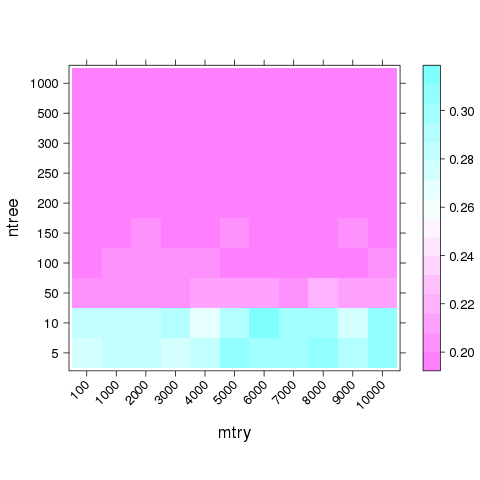
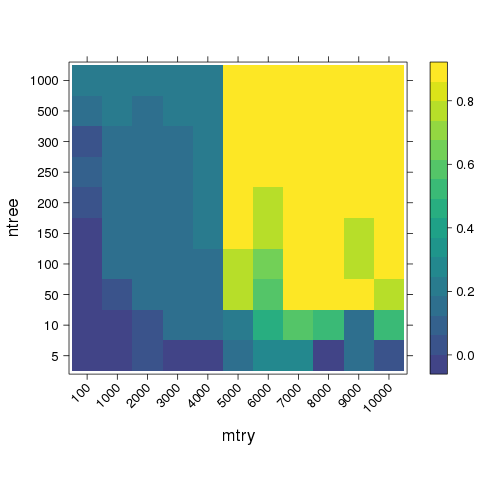
changes to plos16.tex

diff --git a/doc/publications/plos16/plos16.tex b/doc/publications/plos16/plos16.tex
@@ -193,7 +193,7 @@
 \setlength{\marginparwidth}{5cm}
 \usepackage{caption}
 \usepackage{subcaption}
-
+\usepackage{placeins}
 \begin{document}
 \vspace*{0.2in}
 
@@ -563,14 +563,9 @@ the advice of \cite{Liaw.and.Weiner.2002}, which we have found mirrors our own e
 % Section 1:  Feature Selection and classification on synthetic data
 %%%%%%%%%%%%%%%%%%%%%%%%%%%%%%%%
 \subsection{\cursedforest\ can evaluate variable importance for millions of features}\label{synthetic}
-% In this section we demonstrate that \cursedforest's ability to rapidly grow large number of trees, \ntree, in parallel
-% results in a stable feature importance ranking.  This concept was originally proposed by Liaw and
-% Weiner~\cite{Liaw.and.Weiner.2002}, who suggested that though the variable importance measures may vary from run to
-% run, the ranking of the variables will stabilise with growing \ntree.
 In this section we demonstrate \cursedforest\ two main features, namely variable importance analysis to select the most
 associated set of features amongst millions of dimensions as well as its ability to accurately classify the labels of
 high-dimensional samples.
-%We therefore generate a synthetic dataset with varying numbers of variables (features) and samples, as discussed in the method section. 
 We therefore generate a synthetic dataset with 2.5 million variables (features) and 5000 samples, as discussed in the
 method section.
 
@@ -587,44 +582,20 @@ difference between the associated 5 variable and the remaining variables in the 
 with the smallest weight has a predicted importance measure that is 5 times larger than the aggregated importance of the
 15 remaining variables from the list.
 
-\marginpar{wrong figures cited. Rob} Fig.~\ref{figure:synth}b illustrates that increasing \mtry\ also improves the OOB
+Fig.~\ref{figure:synth}b illustrates that increasing \mtry\ also improves the OOB
 (out of bag) classification error.
-%Piotr can you please explain the remaining error on the synthetic data
 By $mtry=0.8$ the error is converging to X, which is due to Y.
 \marginpar{what are ``X'' and ``Y''. Piotr}
 
 From the synthetic data we can conclude that \cursedforest\ is able to perform accurate feature selection as well as
 accurate classification for large numbers of samples with large feature vectors.
 
-
-
-% \begin{figure}[tbhp] 
-%  \begin{adjustwidth}{-1.00in}{0in}
-%   \begin{subfigure}[b]{0.5\linewidth}
-%     \centering
-%     \includegraphics[totalheight=6cm]{./figs/var_oder.png} 
-%     \caption{Variable importance of top 20 variables.} 
-%     \label{fig7:a} 
-%     \vspace{4ex}
-%   \end{subfigure}%% 
-%   \begin{subfigure}[b]{0.5\linewidth}
-%     \centering
-%     \includegraphics[totalheight=6cm]{./figs/var_oob.png}
-%     \caption{OOB classification error} 
-%     \label{fig7:b} 
-%     \vspace{4ex}
-%   \end{subfigure} 
-% \caption{{\bf Variable importance (Mean Decrease Gini) and OOB (out of bag) classification error estimate for random
-%     forests with 100 trees trained on the synthetic dataset of 2.5M features and 5K samples.}  {\bf a)} Variable
-%   importance of top 20 variables normalized to the sum of the linear model coefficients. {\bf Others} represents
-%   aggregated importance of variables not present in the linear model. The dotted line represents the original linear
-%   model coefficients.
-%  {\bf b)} OOB (out of bag) classification error
-%   estimate as function of \mtry\ fraction.}
-%   \label{figure:synth}
-% \end{adjustwidth}
-% \end{figure}
 \marginpar{this was done with n=100000. Needs to redone with n=2.5M}
+
+\subsubsection{simulation 1}
+ 
+Piotr's simulation with $n=1000$ and $p= 10000$
+
 
 \begin{figure}[tbhp] 
  \begin{adjustwidth}{-1.00in}{0in}
@@ -638,6 +609,34 @@ accurate classification for large numbers of samples with large feature vectors.
   \begin{subfigure}[b]{0.5\linewidth}
     \centering
     \includegraphics[totalheight=8cm]{./figs/rbo.png}
+    \caption{The  rank-biased-overlap measure.} 
+    \label{fig7:b} 
+    \vspace{4ex}
+  \end{subfigure} 
+  \caption{{\bf Variable importance (Mean Decrease Gini) and OOB (out of bag) classification error estimate for random
+      forests with 100 trees trained on the synthetic dataset of 2.5M features and 5K samples.}  Each measure is shown
+    as a function of \mtry and \ntree. {\bf a0} OOB (out of bag) classification error.  {\bf b)} The rank-biased-overlap \cite[]{Webber.et.al.2010}. }
+  \label{figure:synth}
+\end{adjustwidth}
+\end{figure}
+
+\FloatBarrier
+\subsubsection{simulation 2}
+Similar to Piotr's simulation with  except $y= w_1x_1 w_2x_2 w_3x_3 w_4x_4 w_5x_5$. $n=1000$ and $p= 10000$
+The significant variables can no longer be recovered by single variable tests for correlation with $y$
+
+\begin{figure}[tbhp] 
+ \begin{adjustwidth}{-1.00in}{0in}
+  \begin{subfigure}[b]{0.5\linewidth}
+    \centering
+    \includegraphics[totalheight=8cm]{./figs/out-of-bag-prediction-error-prod.png}
+    \caption{OOB classification error} 
+    \label{fig7:b} 
+    \vspace{4ex}
+  \end{subfigure} 
+  \begin{subfigure}[b]{0.5\linewidth}
+    \centering
+    \includegraphics[totalheight=8cm]{./figs/rbo-prod.png}
     \caption{The  rank-biased-overlap measure.} 
     \label{fig7:b} 
     \vspace{4ex}
@@ -894,8 +893,11 @@ limits to what can be recovered in the presence of noise. However in the case of
 
 Notes:
 \begin{itemize}
+\item we try a small simulation, a regression problem with $\beta(1:k) \sim U(1,100)$ and $y= X\beta + \epsilon$, $\epsilon \sim  N(0,\sqrt{16})$
 \item \cite{Donoho.and.Stodden.2006} evaluate variable selection by 
 $$\frac{\Vert\hat{\beta}-\beta\Vert_2}{\Vert\beta\Vert_2}$$
+See figure \ref{figure:stepwise_lars_cv.png} 
+\item 
 However there is no $\hat{\beta}$ in a tree model. We are using variable importance as
 a measure of the ordering of $\hat{\beta}$ (i.e. we expect variable importance to be proportional to $\hat{\beta}$). Is this correct?
 \item as RF is sort of greedy approximation to combinatorial approach, it may have some success in the dead zone
@@ -905,13 +907,36 @@ How will their results carry over to 0-1 loss?
 \end{itemize}
 
 
-\begin{figure}[tbhp]
-\includegraphics[totalheight=6cm]{./figs/phase-diagram-equivalence.png} 
+
+
+\begin{figure}[tbhp] 
+ \begin{adjustwidth}{-1.00in}{0in}
+  \begin{subfigure}[b]{0.4\linewidth}
+    \centering
+   \includegraphics[totalheight=6cm]{./figs/phase-diagram-equivalence.png} 
 \caption{{\bf The phase chage diagram.}}
 \label{figure:phase-diagram-equivalence.png} 
+    \vspace{4ex}
+  \end{subfigure} 
+  \begin{subfigure}[b]{0.6\linewidth}
+    \centering
+  \includegraphics[totalheight=6cm]{./figs/stepwise_lars_cv.png}
+\caption{Stepwise lars. $p=200$, $n$ and $k$ variable. Model selected by cross-validation
+}
+\label{figure:stepwise_lars_cv.png}
+  \end{subfigure} 
+  \caption{}
+\end{adjustwidth}
 \end{figure}
 
 
+\begin{figure}[tbhp]
+\includegraphics[totalheight=6cm]{/home/dun280/Dropbox/random_forests/exploration/figs/ranger.png}
+\caption{ ranger}
+\label{figure:ranger.png}
+\end{figure}
+
+\clearpage
 \section{Supporting Information}
 
 % Include only the SI item label in the subsection heading. Use the \nameref{label} command to cite SI items in the text.
